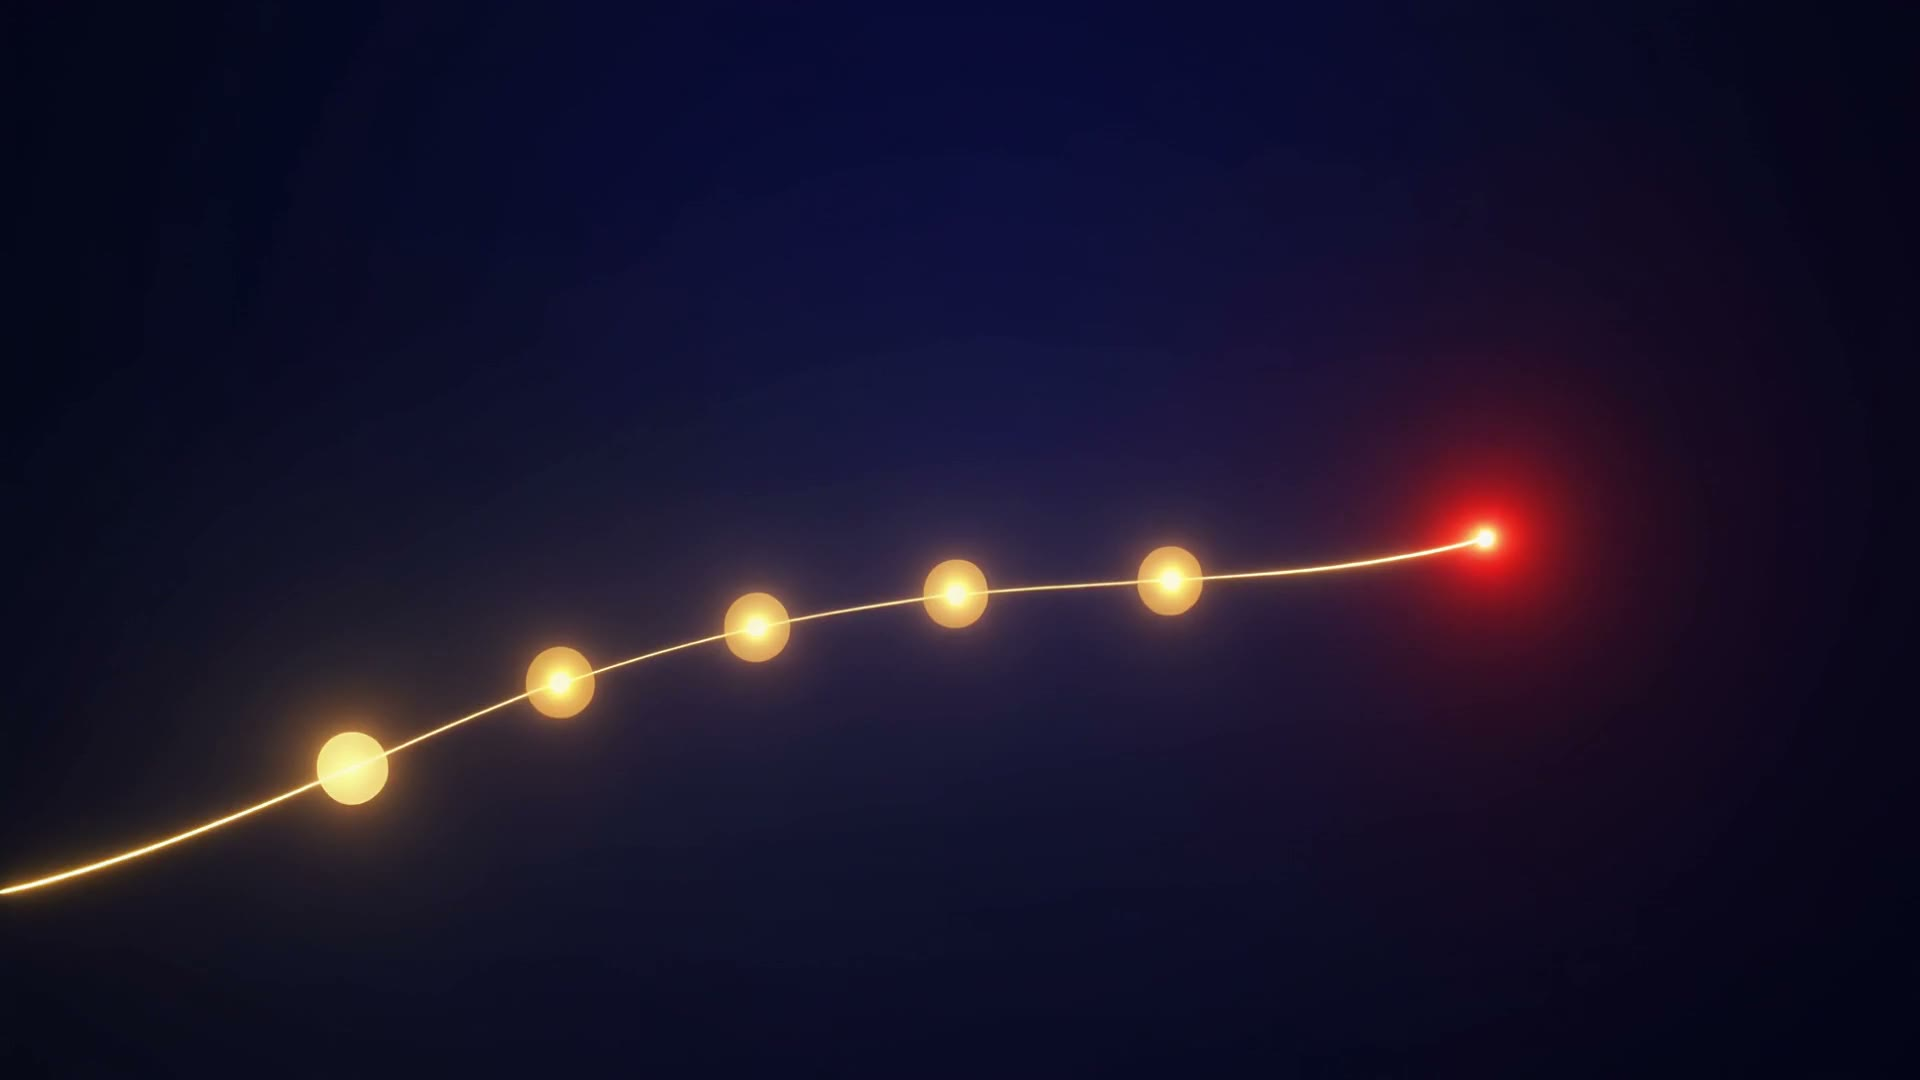
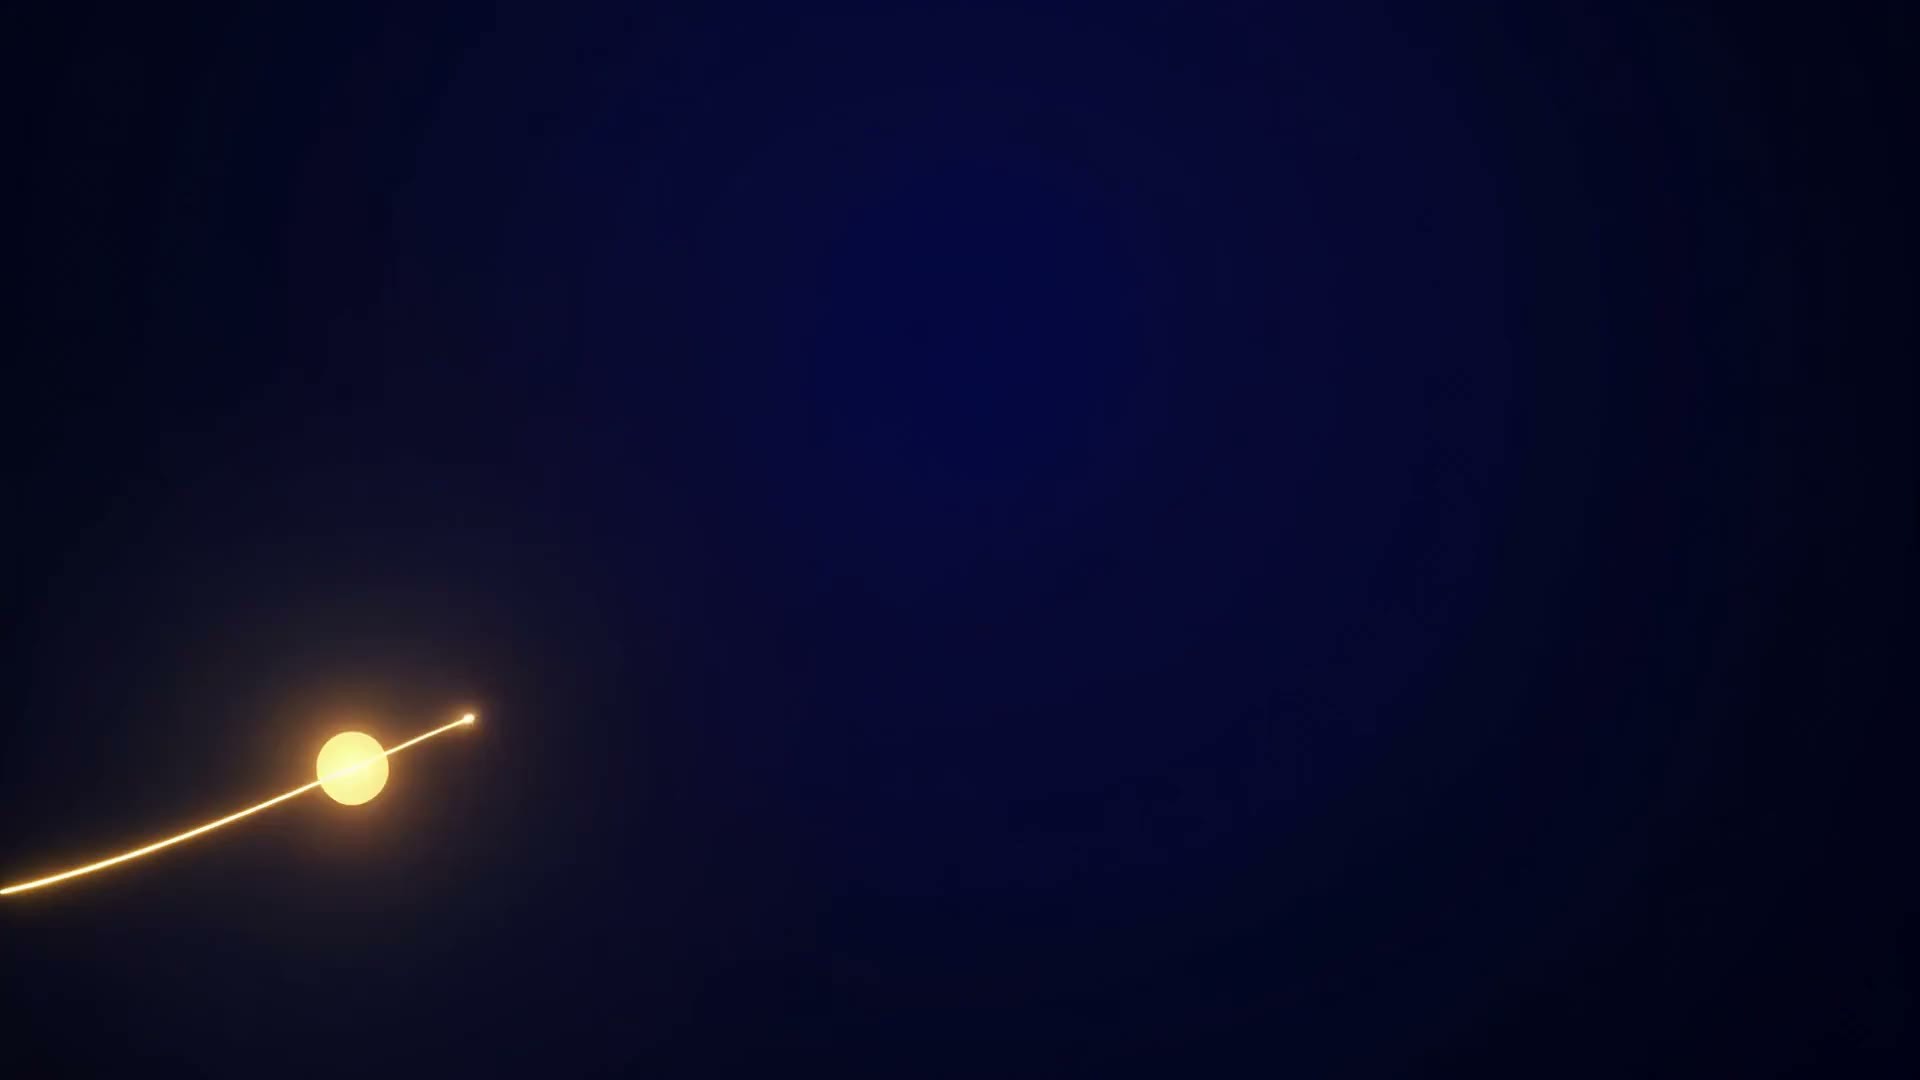
feat(unicredit): mappa motori leggibile, loop video continuo + credit Firefly, stepper a una riga, chiusura col viaggio di Marco
- Engine map ridisegnata: sei tessere pulite (numero, nome, prodotti, capitolo)
  con pallino oro/rosso «lo vive Marco / lo vede il team UniCredit»; via le righe di testo.
- Clip Firefly ricodificati in ping-pong (loop senza stacco, 10 s, ~1 MB) e
  ricaricati sul Release media; credit «visual e movimento generati con Adobe
  Firefly» in home e sulle slide-momento.
- Stepper .uc-steps a una riga (persona e chiusura).
- Chiusura: «Il viaggio di Marco» a sei nodi sopra i sei motori, lead più corto.
audit:deck 0 HARD su home/Scenario/Risultati a 3 viewport.

Claude-Session: https://claude.ai/code/session_017iAZaVotTf3QE3SByP7co3

Changed region(s): [[0.125, 0.275, 0.9062, 0.7639]]

diff --git a/apps/unicredit-engagement/src/styles/global.css b/apps/unicredit-engagement/src/styles/global.css
@@ -601,3 +601,13 @@ img, picture, video, canvas, svg {
 [data-slide]:has(.uc-video) > .inset-0 { z-index: 2; }
 @media (prefers-reduced-motion: reduce) { .uc-video { display: none; } }
 .uc-firefly { font-size: 0.75rem; letter-spacing: 0.06em; text-transform: uppercase; color: var(--color-grigio-400); max-width: none; }
+
+/* ── .uc-steps — stepper orizzontale a nodi numerati (persona, chiusura) ── */
+.uc-steps { list-style: none; margin: 1.4rem 0 0; padding: 0; display: grid; grid-auto-flow: column; grid-auto-columns: minmax(0, 1fr); gap: 0.25rem; position: relative; width: 100%; }
+.uc-steps::before { content: ''; position: absolute; left: 8%; right: 8%; top: 0.8rem; height: 2px; background: linear-gradient(to right, rgba(201,169,110,0.25), var(--color-oro) 50%, rgba(201,169,110,0.25)); }
+.uc-steps-item { position: relative; display: flex; flex-direction: column; align-items: center; text-align: center; min-width: 0; gap: 0.4rem; }
+.uc-steps-n { width: 1.6rem; height: 1.6rem; border-radius: 9999px; display: inline-flex; align-items: center; justify-content: center; font-family: var(--font-display); font-weight: 600; font-size: 0.78rem; color: var(--color-rosso); background: var(--color-bianco); border: 1px solid rgba(190,32,39,0.35); box-shadow: 0 0 0 4px var(--surface-primary); position: relative; }
+.uc-steps-label { font-size: clamp(0.62rem, 0.85vw, 0.74rem); font-weight: 700; letter-spacing: 0.04em; text-transform: uppercase; color: #9a7c42; line-height: 1.25; max-width: none; }
+.uc-steps--dark .uc-steps-n { color: var(--color-oro); background: rgba(26,26,46,0.9); border-color: rgba(201,169,110,0.55); box-shadow: 0 0 0 4px rgba(26,26,46,0.9); }
+.uc-steps--dark .uc-steps-label { color: var(--color-grigio-200); }
+.uc-steps--dark .uc-steps-item.is-last .uc-steps-n { color: var(--ink-inverse); background: var(--color-rosso); border-color: var(--color-rosso); }

diff --git a/docs/HANDOVER-02.md b/docs/HANDOVER-02.md
@@ -6,7 +6,7 @@
 ## 11. Change log recente
 
 ### Change log — UniCredit: il viaggio intero di Marco + «Analizza» ricucita sull'attribution (2026-09-09 sera) → dettaglio §5.7 (HANDOVER-01)
-- (segue, tarda sera) **feat(unicredit): passata completa sul deck su richiesta slide-per-slide** — home cover con **clip Firefly Video** in loop (non statica); cover di **tutti** i capitoli uniformi (`UcCover`: rail capitoli + chip «in questo capitolo»), Scenario cover con skyline Firefly; gap a 4 card uguali; **momento GenStudio** aggiunto (6 momenti); engine-map con card uniformi; slide promessa rimossa; **chiusura** nuova in Risultati con clip Firefly; copy «intero» corretto; Coworker cover come ponte da Analizza. `audit:deck` 0 HARD su home+6 sezioni a 3 viewport.
+- (segue, tarda sera) **feat(unicredit): passata completa sul deck su richiesta slide-per-slide** — home cover con **clip Firefly Video** in loop (non statica); cover di **tutti** i capitoli uniformi (`UcCover`: rail capitoli + chip «in questo capitolo»), Scenario cover con skyline Firefly; gap a 4 card uguali; **momento GenStudio** aggiunto (6 momenti); engine-map con card uniformi; slide promessa rimossa; **chiusura** nuova in Risultati con clip Firefly; copy «intero» corretto; Coworker cover come ponte da Analizza. `audit:deck` 0 HARD su home+6 sezioni a 3 viewport. **Secondo giro (feedback su 4 screenshot)**: engine-map ridisegnata a 6 tessere pulite (numero, nome, prodotti, pallino oro/rosso «lo vive Marco / lo vede il team»), clip video ricodificati **ping-pong** (loop continuo, 10 s, ~1 MB) con credit Firefly in home e sulle slide-momento, stepper `.uc-steps` a una riga (persona + chiusura), chiusura con «Il viaggio di Marco» sopra i 6 motori.
 - (segue, stessa sera) **feat(unicredit): la storia di Marco come flusso di 5 slide-momento + 5 backdrop Firefly** — l'utente ha bocciato il pannello unico («è terribile: deve essere un flusso di racconto»). Risposte alle 3 domande: 5 momenti (uno per capitolo) · scene Firefly senza volti + mock UI · sfondi statici. Scenario da 6 a **11 slide** (`slide-story-01…05` tra persona ed engine-map); template testo-sinistra/mock-destra, `marcoMoments[]`, stili `.uc-story-*`/`.uc-mock-*`; slot `ff-story-01…05` in manifest + provenance mergiata. `audit:deck` Scenario **0 HARD** a 3 viewport; 7 slide lette a 1920 IT+EN.
 - `3c1a555` **feat(unicredit)** — richiesta utente slide-per-slide: (1) **Scenario 4/6 (Marco)** senza pill prodotto, racconta l'**intero flusso** in 5 beat = i 5 capitoli (`marcoJourney`, stepper `.uc-journey`); (2) **Scenario 5/6 (engine map)** ogni motore ha la riga «**Per Marco**», i motori 05/06 anche «**Dentro UniCredit**» (marketer/analista/consulente); (3) slide **AI Agents in AEM** spostata da Contenuti a **Il Sito** dopo Edge Delivery (coerente con la mappa motori: engine 01); (4) **Sofia rimossa** da Contenuti (quote GenStudio e vincolo «varianti» ora su Marco); (5) **Analizza riscritta come un solo racconto** «Chi ha portato Marco al mutuo?» con l'attribution come filo: nuova `slide-journey` (CJA cuce 8 touchpoint), poi lasttouch → agent → llm (fusa con la vecchia llm-mix) → costpersale → campaign → cxa-brand («Tutto questo è Adobe CX Analytics») → everywhere con CTA al Coworker. **Rimosse** `slide-banking` e `slide-llm-mix`. `PAGE_REGISTRY`, home e `appearsIn` aggiornati. `audit:deck` **0 HARD** su Scenario/Il Sito/Contenuti/Analizza a 1920/1440/1280 (bonificati anche i residui 1280 pre-esistenti su aem-agents/brand-visibility/brand-concierge e il contrasto dei link fonte su slide-data); 16 slide lette a 1920 in IT e EN.
 - Assunzione dichiarata: la numerazione dell'utente («3 di 4», «4 di 5») corrisponde a una config soluzioni salvata che nasconde le slide gated Brand Visibility/Brand Concierge; le modifiche sono sui file e valgono con qualunque gating.
